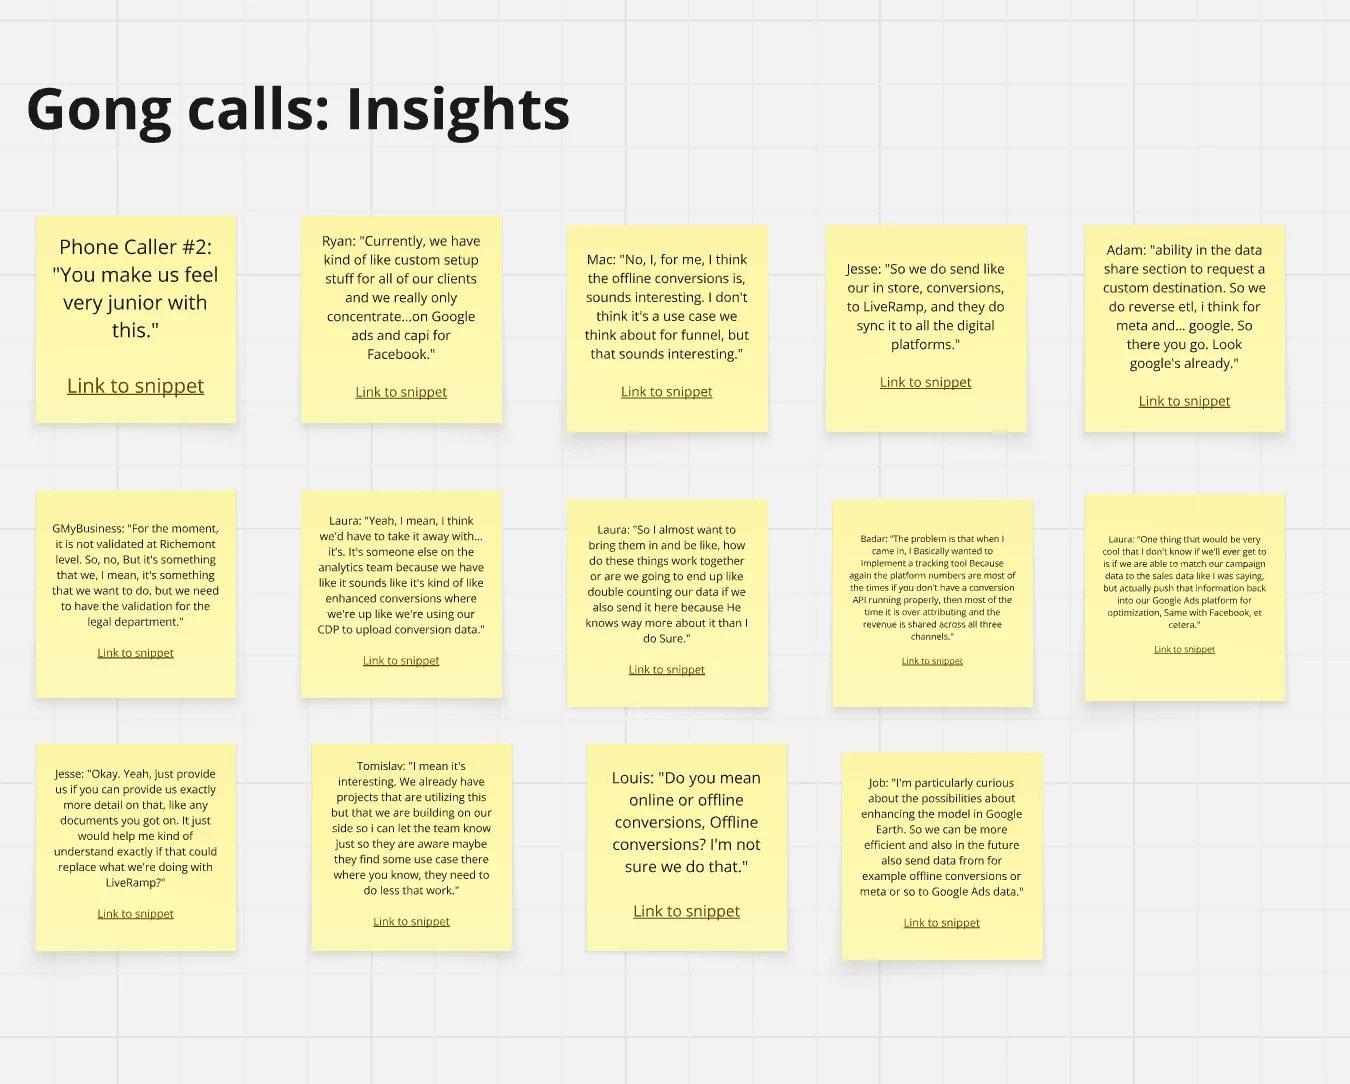
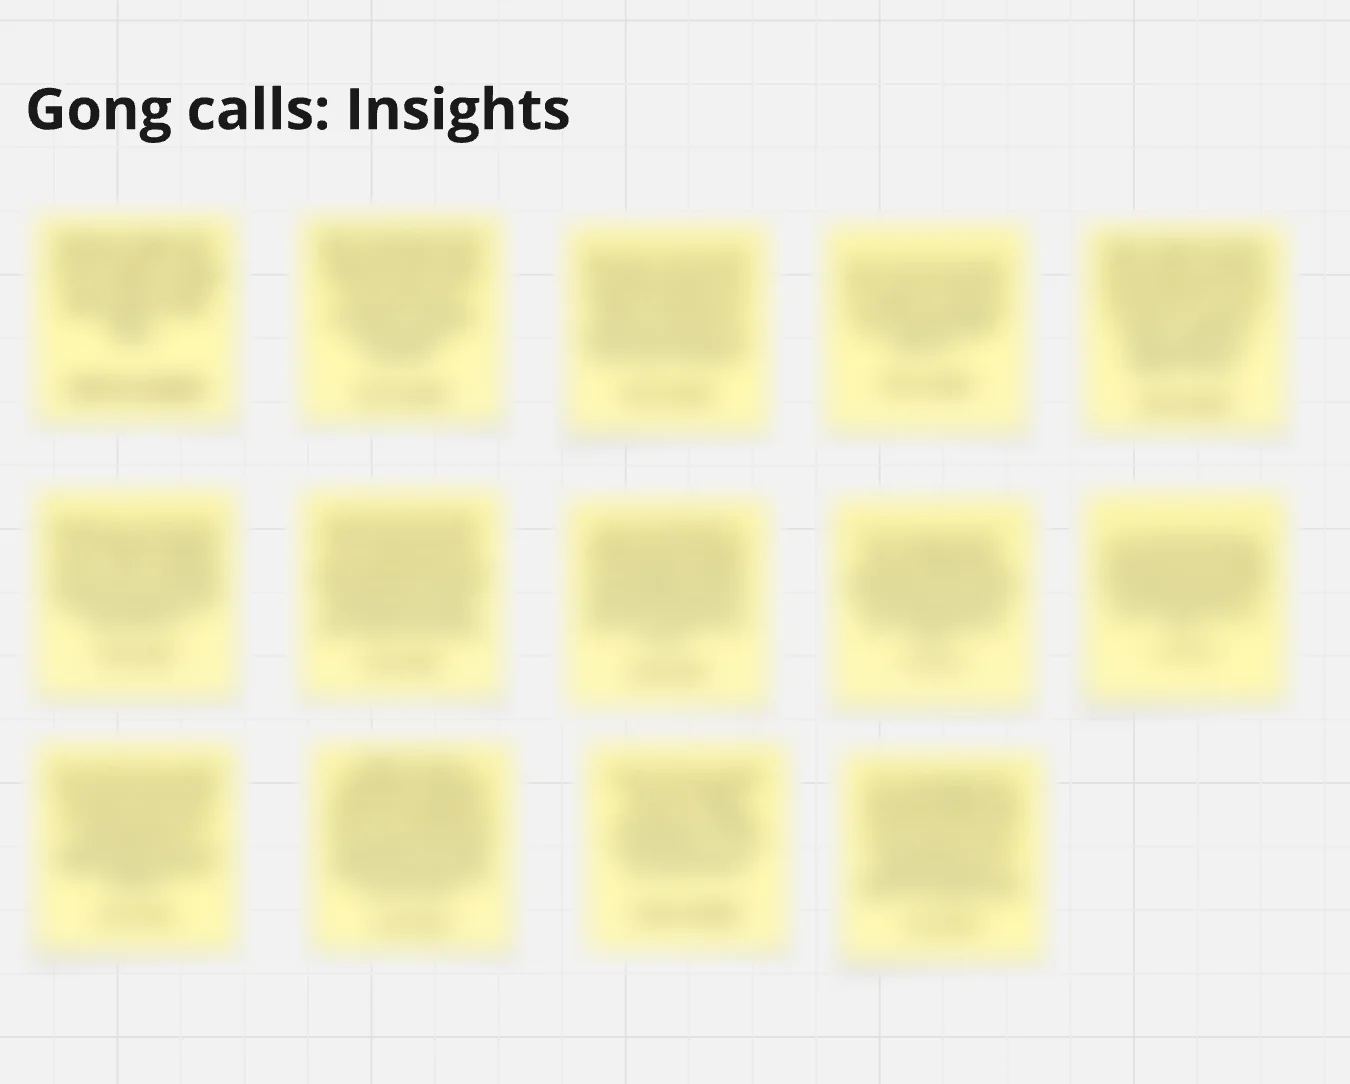
Activate: blur Gong quotes, roomier workshop steps, drop duration tag
Claude-Session: https://claude.ai/code/session_01BATPRoECTHL4PcAcJy8jfd

diff --git a/assets/css/style.css b/assets/css/style.css
@@ -309,7 +309,7 @@ a:focus-visible,button:focus-visible,input:focus-visible,[tabindex]:focus-visibl
 .car-bar{display:flex;align-items:center;gap:12px;padding:0 10px}
 .car-cap{flex:1;margin:0;font-family:var(--hand);font-size:17px;color:var(--ink-3);line-height:1.35}
 .car-n{font-family:var(--hand);font-size:17px;color:var(--ink-3);white-space:nowrap}
-.steps{margin:4px 0 0;padding:0;list-style:none;counter-reset:st;display:flex;flex-direction:column;gap:10px}
+.steps{margin:8px 0 6px;padding:0;list-style:none;counter-reset:st;display:flex;flex-direction:column;gap:18px}
 .steps li{counter-increment:st;position:relative;padding-left:40px;font-size:16px;line-height:1.5}
 .steps li::before{content:counter(st);position:absolute;left:0;top:-1px;width:28px;height:28px;display:flex;align-items:center;justify-content:center;font-family:var(--hand);font-size:16px;border:2px solid var(--ink);border-radius:50% 45% 52% 48%/48% 52% 46% 54%}
 @media (max-width:640px){.car-bar{flex-wrap:wrap}.car-cap{flex-basis:100%;order:3}}

diff --git a/assets/js/content.js b/assets/js/content.js
@@ -66,7 +66,7 @@ window.SITE = {
       thumb: { src: "images/activate/thumb.webp", label: "Field mapping and advanced settings in Activate" },
       title: "Activate.",
       subtitle: "Building a 0 to 1 product to solve signal loss for marketers.",
-      context: ["Funnel", "Launched 2025", "About a year", "Product Designer", "1 PM · 4 engineers"],
+      context: ["Funnel", "Launched 2025", "Product Designer", "1 PM · 4 engineers"],
       summary: "With cookies disappearing and privacy rules like GDPR, tracking a customer journey online has never been harder. Ad platforms lose sight of which campaigns actually drive conversions, so marketers spend without knowing what works. Activate sends conversion data back to platforms like Google, Meta and LinkedIn automatically, so they can attribute and optimize based on real business outcomes.",
       outcomes: [
         "Integrations with 7 platforms: Google Ads, Meta, LinkedIn, Microsoft, TikTok, Snapchat and Pinterest",
